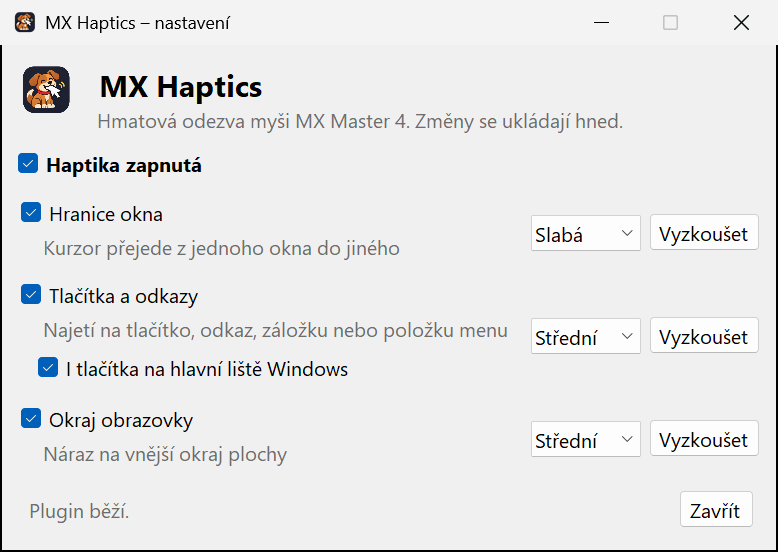
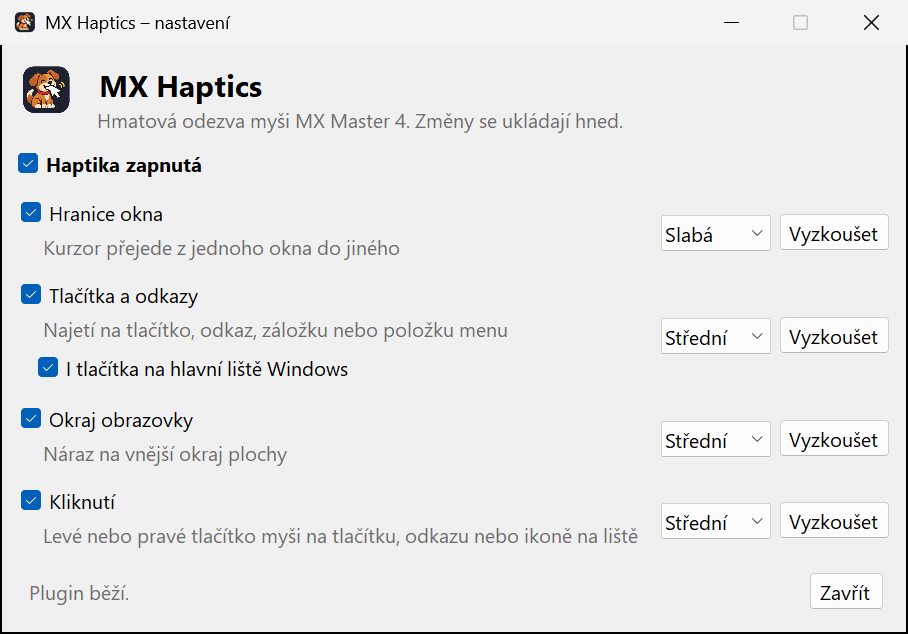
Haptika při kliknutí na tlačítko, odkaz nebo ikonu na liště, verze 0.4.0

diff --git a/src/PointerWatcher.cs b/src/PointerWatcher.cs
@@ -42,6 +42,9 @@ namespace Loupedeck.MxHapticsPlugin
         private readonly Func<Boolean> _taskbarEnabled;
         private Thread _controlThread;
 
+        // klikatelný prvek pod kurzorem (píše vlákno prvků, čte vlákno oken kvůli kliknutí); null = žádný
+        private volatile String _hoverKey;
+
         public PointerWatcher(Action<String> raise, Func<Boolean> taskbarEnabled)
         {
             this._raise = raise;
@@ -77,11 +80,21 @@ namespace Loupedeck.MxHapticsPlugin
             var wasAtEdge = false;
             var lastEdgeEvent = Int64.MinValue / 2;
             var lastPos = new POINT { X = Int32.MinValue };
+            var wasDown = false;
 
             while (!token.WaitHandle.WaitOne(WindowPollMs))
             {
                 try
                 {
+                    // --- kliknutí na prvek (stisk levého/pravého tlačítka); tady kvůli 10ms vzorkování ---
+                    var down = Native.IsButtonDown();
+                    if (down && !wasDown && this._hoverKey != null)
+                    {
+                        this._raise(Reactions.Click);
+                    }
+
+                    wasDown = down;
+
                     if (!Native.GetCursorPos(out var p))
                     {
                         continue;
@@ -166,6 +179,7 @@ namespace Loupedeck.MxHapticsPlugin
                     if (Native.IsButtonDown())
                     {
                         lastKey = null;
+                        this._hoverKey = null;
                         continue;
                     }
 
@@ -175,6 +189,8 @@ namespace Loupedeck.MxHapticsPlugin
                     {
                         key = FindClickableKey(p);
                     }
+
+                    this._hoverKey = key;
                     if (key != null && key != lastKey && this.Now - lastControlEvent > ControlDebounceMs)
                     {
                         lastControlEvent = this.Now;

diff --git a/shared/HapticsSettings.cs b/shared/HapticsSettings.cs
@@ -18,8 +18,9 @@ namespace MxHaptics.Shared
         public const String WindowBorder = "windowBorder";
         public const String ControlHover = "controlHover";
         public const String ScreenEdge = "screenEdge";
+        public const String Click = "click";
 
-        public static readonly String[] All = { WindowBorder, ControlHover, ScreenEdge };
+        public static readonly String[] All = { WindowBorder, ControlHover, ScreenEdge, Click };
 
         /// <summary>Název haptické události pro reakci a sílu, např. <c>windowBorder_weak</c>.</summary>
         public static String EventName(String reaction, Strength strength) =>
@@ -55,6 +56,8 @@ namespace MxHaptics.Shared
 
         public ReactionSettings ScreenEdge { get; set; } = new() { Strength = Strength.Medium };
 
+        public ReactionSettings Click { get; set; } = new() { Strength = Strength.Medium };
+
         /// <summary>Reakce <see cref="Reactions.ControlHover"/> i na tlačítkách hlavní lišty Windows (UI Automation).</summary>
         public Boolean TaskbarButtons { get; set; } = true;
 
@@ -68,6 +71,7 @@ namespace MxHaptics.Shared
             Reactions.WindowBorder => this.WindowBorder ??= new ReactionSettings(),
             Reactions.ControlHover => this.ControlHover ??= new ReactionSettings(),
             Reactions.ScreenEdge => this.ScreenEdge ??= new ReactionSettings(),
+            Reactions.Click => this.Click ??= new ReactionSettings(),
             _ => throw new ArgumentOutOfRangeException(nameof(reaction), reaction, "Neznámá reakce"),
         };
 

diff --git a/settings/SettingsForm.cs b/settings/SettingsForm.cs
@@ -15,6 +15,7 @@ namespace MxHaptics.Settings
             (Reactions.WindowBorder, "Hranice okna", "Kurzor přejede z jednoho okna do jiného"),
             (Reactions.ControlHover, "Tlačítka a odkazy", "Najetí na tlačítko, odkaz, záložku nebo položku menu"),
             (Reactions.ScreenEdge, "Okraj obrazovky", "Náraz na vnější okraj plochy"),
+            (Reactions.Click, "Kliknutí", "Levé nebo pravé tlačítko myši na tlačítku, odkazu nebo ikoně na liště"),
         };
 
         private static readonly String[] StrengthLabels = { "Slabá", "Střední", "Silná" };

diff --git a/AGENTS.md b/AGENTS.md
@@ -33,7 +33,7 @@ Logi Plugin Service. Nastavení má samostatné WinForms okno (`settings/`), iko
   `%LOCALAPPDATA%\Logi\LogiPluginService\Plugins\MxHaptics.link` a přes `loupedeck:plugin/MxHaptics/reload` plugin znovu načte.
   `-p:SkipPluginLink=true` zápis `.link` a reload vynechá.
 - Ověření načtení: `%LOCALAPPDATA%\Logi\LogiPluginService\Logs\plugin_logs\MxHaptics.log` má obsahovat
-  „Plugin 'MxHaptics' … loaded“ a „Event source added … with 9 events“. Chyby jsou i v `_errors.log`.
+  „Plugin 'MxHaptics' … loaded“ a „Event source added … with 12 events“. Chyby jsou i v `_errors.log`.
 - Vibrace samotné ověřit nejde, poznat je může jen uživatel s myší v ruce. Neříkej, že haptika funguje, když jsi ji necítil.
 - Nehýbej uživateli kurzorem kvůli testu. Rouru jde ověřit příkazem `reload` (odpověď `ok`); `test` uživateli zavibruje myší.
 
@@ -41,7 +41,7 @@ Logi Plugin Service. Nastavení má samostatné WinForms okno (`settings/`), iko
 
 - Události jsou definované jen v `src/package/events/DefaultEventSource.yaml`. Nevolej k nim navíc `PluginEvents.AddEvent`,
   jinak se zaregistrují dvakrát (log pak hlásí dvojnásobek událostí).
-- Události mají tvar `<reakce>_<síla>` (`windowBorder_weak` …, viz `Reactions.EventName`). Všech 9 kombinací musí být
+- Události mají tvar `<reakce>_<síla>` (`windowBorder_weak` …, viz `Reactions.EventName`). Všech 12 kombinací musí být
   v `DefaultEventSource.yaml` i v `eventMapping.yaml`. Novou reakci přidej do `Reactions`, `HapticsSettings`, obou YAML a do řádků okna.
 - Síla: `weak` = `subtle_collision`, `medium` = `damp_collision`, `strong` = `sharp_collision`. SDK nemá parametr síly, proto varianty událostí.
 - Povolené vzory vibrací: `sharp_state_change`, `damp_state_change`, `sharp_collision`, `damp_collision`, `subtle_collision`,
@@ -50,6 +50,8 @@ Logi Plugin Service. Nastavení má samostatné WinForms okno (`settings/`), iko
 - Hlavní lišta: MSAA ani UIA `ElementFromPoint` do XAML lišty nevidí, proto `FindAll` tlačítek + vlastní hit-test. UIA vrací fyzické
   pixely, porovnávej s `GetPhysicalCursorPos`. Rozhraní v `TaskbarButtons.cs` jsou prefixy vtable z `UIAutomationClient.h`, pořadí nepřehazuj.
 - Lišta jde vypnout volbou `taskbarButtons` v JSON (výchozí `true`, v okně pod řádkem „Tlačítka a odkazy“). Plugin ji čte při každém vzorku přes delegát z `MxHapticsPlugin`.
+- Kliknutí (`click`) hlásí vlákno oken (10 ms, hrana stisku L/P tlačítka), ale jen když `_hoverKey` (píše vlákno prvků) není null.
+  Vlákno oken tím dál nevolá MSAA ani UIA, jen čte volatile pole.
 - Ikonu dodává uživatel. Nekresli vlastní ani ji neupravuj. `Icon256x256.png` je zmenšenina `design/icon-source.png` na 256 × 256 (bikubicky).
   Při nové ikoně nahraď obojí a pusť `pwsh tools/Convert-IconToIco.ps1`.
 - Po změně vzhledu okna přegeneruj screenshoty: `build\settings\MxHapticsSettings.exe --screenshot docs\screenshots\nastaveni-<dark|light>.png --theme <dark|light>`.

diff --git a/README.md b/README.md
@@ -9,6 +9,7 @@ Plugin pro Logi Options+ (Logi Actions SDK), který posílá hmatovou odezvu na 
 | Hranice okna (`windowBorder`) | kurzor přejede z jednoho okna do jiného | slabá |
 | Tlačítka a odkazy (`controlHover`) | najetí na tlačítko, odkaz, záložku, položku menu (MSAA), tlačítka hlavní lišty Windows 11 (UI Automation) | střední |
 | Okraj obrazovky (`screenEdge`) | náraz na vnější okraj plochy (vnitřní hrany monitorů se nepočítají) | střední |
+| Kliknutí (`click`) | stisk levého nebo pravého tlačítka myši na prvku, na který reaguje „Tlačítka a odkazy“ (klik do textu nebo na plochu ne) | střední |
 
 Jen Windows. Plugin běží uvnitř Logi Plugin Service, nastavení má samostatné okno.
 
@@ -116,6 +117,8 @@ gh release create v<verze> ./MxHaptics_<verze>.lplug4 --title "MX Haptics <verze
 - Hlavní lišta Windows 11 je pro MSAA jeden blok bez tlačítek. Když je kurzor nad lištou (`Shell_TrayWnd`, na dalších monitorech
   `Shell_SecondaryTrayWnd`), plugin si přes UI Automation načte obdélníky jejích tlačítek (aplikace, Start, ikony v oznamovací
   oblasti, hodiny …), drží je sekundu v cache a kurzor s nimi porovnává sám.
+- Kliknutí: vlákno oken každých 10 ms čte stav levého a pravého tlačítka. Při stisku vibruje, pokud vlákno prvků naposledy
+  našlo pod kurzorem klikatelný prvek. Vibrace přijde až po fyzickém cvaknutí (cesta přes Logi Plugin Service do myši).
 - Okno nastavení posílá pluginu příkazy přes lokální pojmenovanou rouru `MxHaptics` (jen pro aktuálního uživatele):
   `reload` po uložení a `test <reakce> <síla>` pro tlačítko *Vyzkoušet*.
 - Aplikace, které neposkytují accessibility (některé hry, část Electron aplikací), na tlačítkách vibrovat nebudou.
